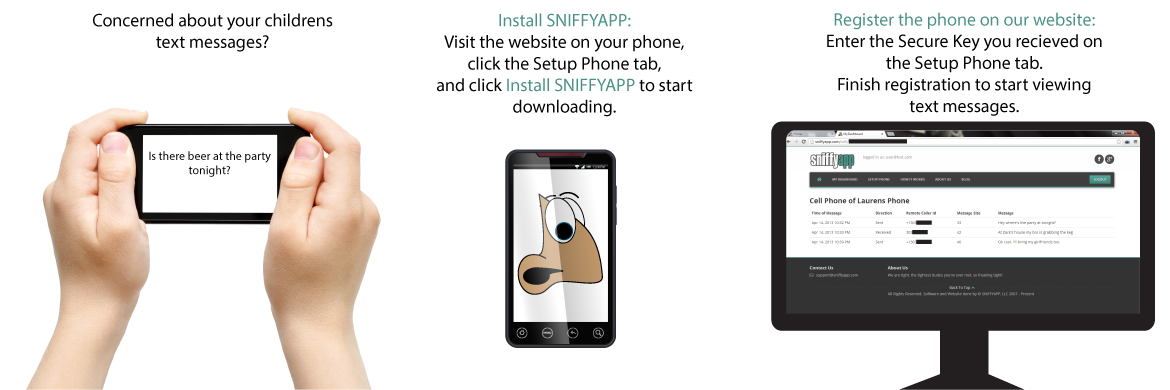
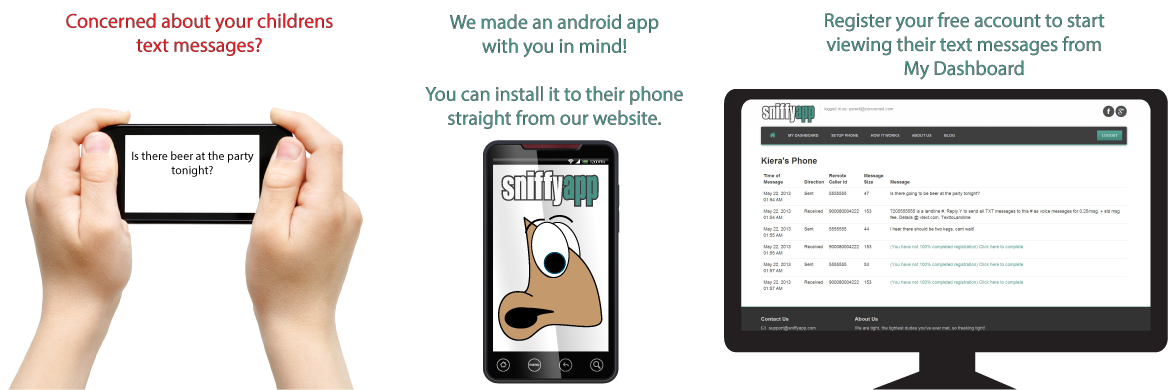
updated setup phone, hiw with info and screenshots, and slide2 on index1.

diff --git a/app/views/Application/hiw.html b/app/views/Application/hiw.html
@@ -6,26 +6,54 @@
 <br>
 
 <div class="container">
-Step by Step Instructions:
 
+<b>Not sure which phone to install SNIFFYAPP on?</b>
 <br>
 <br>
+You want to install the application on your son or daughters phone. The phone you install the app on will be the phone we grab the text messages from. 
+<br>
+<br>
+<b>What is the easiest and fastest way to install the app and complete registration?</b>
+<br>
+<br>
+The easiest and fastest way to do this is from your son or daughters phone:
+<br>
+<br>
+Step 1. Open up their web browser and go to sniffyapp.com 
+<br>
+<br>
+Step 2. press the dropdown menu and select SETUP PHONE
+<br>
+<br>
+Step 3. Follow the Instruction for installing the app and entering your Secure Key
+<br>
+<br>
+Step 4. Register your free account. All you need is an Email Address and Password. 
+<br>
+<br>
+Step 5. Now that you have completed Registration, you can view all incoming and outgoing text messages from MY DASHBOARD!
+<br>
+<br>
+<b>Having trouble finding the app on your childs phone?</b>
+<br>
+<br>
+We disguised SNIFFYAPP to look like a Digital Clock to prevent your child from uninstalling it. 
+<br>
+<br>
+<ul class="thumbnails">
+  <li class="span4">
+    <a href="public/img/screenshots/app5.png">
+	<img src="public/img/screenshots/digi.png" class="thumbnail">
+    </a>
+  </li>
+</ul>
 
-1.	Install SniffyApp on your Android smartphone from the GooglePlay store.
+<b>How can I add an additional phone to my exisiting account?</b>
 <br>
 <br>
-2.	When you open SniffyApp for the first time we will give you a Secure Key. Please write this key down, you will need it when registering on the website.
+It's easy! Install the app on your additional phone, sign into your existing account, then on the Setup Phone tab enter your Secure Key. You will now see an additional phone on My Dashboard. 
 <br>
 <br>
-3.	Register on the SniffyApp site. Here you will be prompted to enter your Secure Key.
 <br>
 <br>
-Helpful Tip: If you have already installed SniffyApp on other devices, remember to use the same username and password so the new device is added to your existing My Dashboard. 
-<br>
-<br>
-4.	When you are finished registering you will be able to view text messages from the My Dashboard page. 
-
-
 </div>
-
-<br>

diff --git a/app/views/Application/setup.html b/app/views/Application/setup.html
@@ -14,11 +14,24 @@
 2.	Press <a href="/public/sniffy/sniffy.apk" data-toggle="tooltip" title="This will start downloading SNIFFYAPP on your phone after you press here.">INSTALL SNIFFYAPP</a>
 <br>
 <br>
-3.	Open SNIFFYAPP on your phone and you will be given a Secure Key. We know this Key can be long, so we added a COPY button to make it easy for you. 
+3.	Open SNIFFYAPP on your phone and you will be given a <b>Secure Key</b>. We know this Key can be long, so we added a COPY button to make it easy for you. 
 <br>
 <br>
-4.  Enter or Paste your Secure Key below.
+<b>Helpful Tip:</b> We disguised SNIFFYAPP to look like a Digital Clock to prevent your child from uninstalling it. 
+<br>
+<br>
+<ul class="thumbnails">
+  <li class="span4">
+    <a href="public/img/screenshots/app5.png">
+	<img src="public/img/screenshots/digi.png" class="thumbnail">
+    </a>
+  </li>
+</ul>
 
+4.  Enter or Paste your <b>Secure Key</b> below.
+<br>
+<br>
+NEED SOME HELP? Check out our <a href="@{Application.hiw()}" class="menu-item">How It Works</a> page for more information. 
 </div>
 
 <br>
